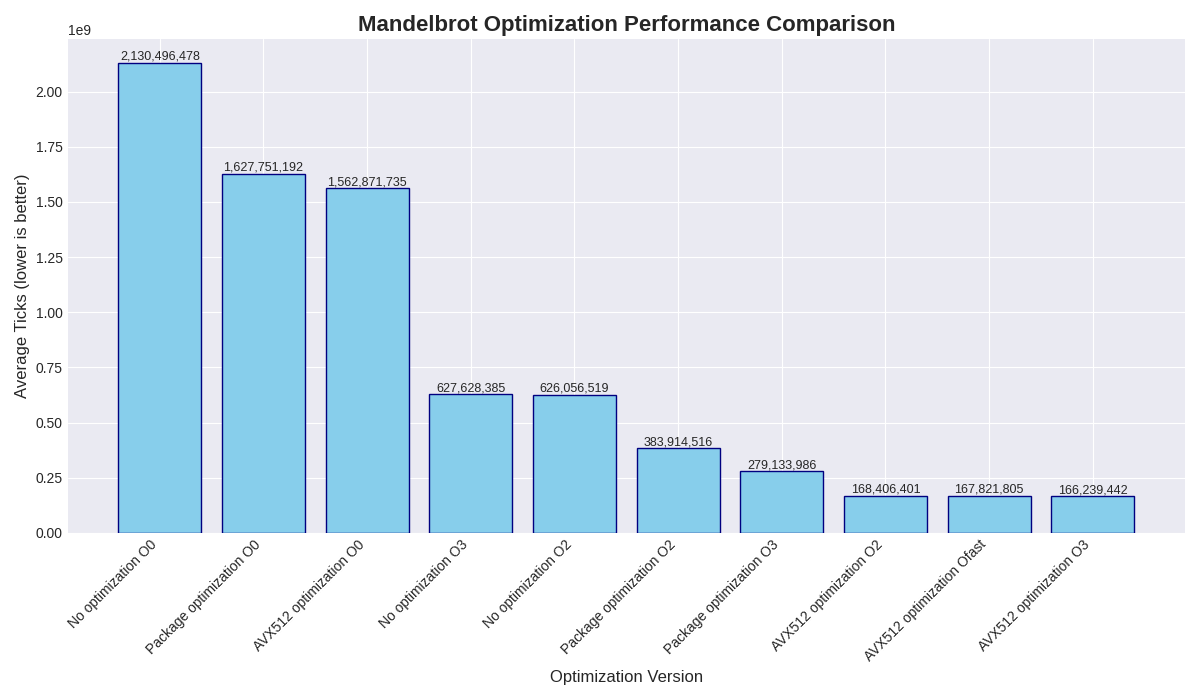
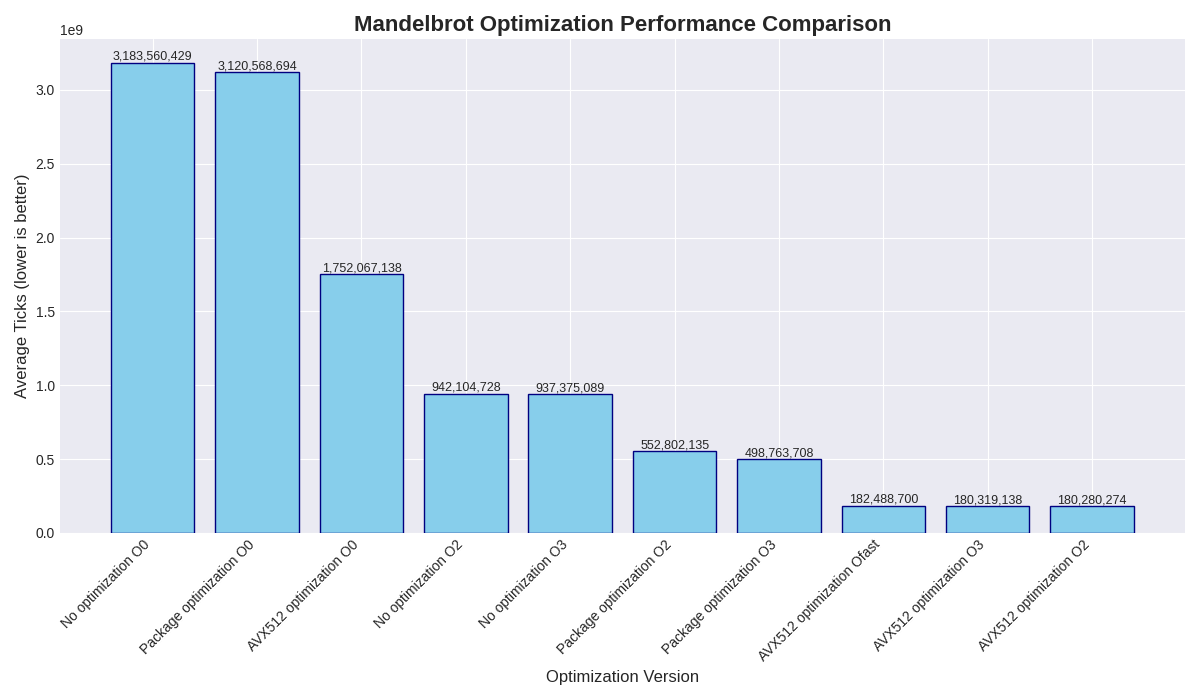
fixed some bugs

diff --git a/source/calc_avx512.c b/source/calc_avx512.c
@@ -7,6 +7,9 @@
 #include "calc_avx512.h"
 
 
+const int DOUBLE_PACK_SIZE = 8;
+
+
 void UpdateImageAVX512Optimization(Image* canvas, const CameraContext* cameraCtx)
 {
     assert(canvas); assert(canvas->data); assert(cameraCtx);
@@ -39,29 +42,35 @@ void UpdateImageAVX512Optimization(Image* canvas, const CameraContext* cameraCtx
             __m512d arrayModulusPow2 = _mm512_set1_pd(0.0);
             __m512i nCounter = _mm512_set1_epi64(0ll);
 
+            __m512d two = _mm512_set1_pd(2.0);
+            __m512i oneI = _mm512_set1_epi64(1ll);
+            __m512d limitPow2 = _mm512_set1_pd(NO_RETURN_POINT_POW2);
+
             unsigned char alive_mask = 0xFF;
             int n = 0;
 
             for (; n < MAX_ITERATION_COUNT && alive_mask; n++) {
-                arrayXPow2 = _mm512_mask_mul_pd(arrayXPow2, alive_mask, arrayX, arrayX);
-                arrayYPow2 = _mm512_mask_mul_pd(arrayYPow2, alive_mask, arrayY, arrayY);
+                arrayXPow2 = _mm512_mul_pd(arrayX, arrayX);
+                arrayYPow2 = _mm512_mul_pd(arrayY, arrayY);
 
-                arrayY = _mm512_mask_mul_pd(arrayY, alive_mask, arrayX, arrayY);
-                arrayY = _mm512_mask_mul_pd(arrayY, alive_mask, _mm512_set1_pd(2.0), arrayY);
-                arrayY = _mm512_mask_add_pd(arrayY, alive_mask, arrayY, arrayY0);
-
-                arrayX = _mm512_mask_sub_pd(arrayX, alive_mask, arrayXPow2, arrayYPow2);
-                arrayX = _mm512_mask_add_pd(arrayX, alive_mask, arrayX, arrayX0);
-
-                arrayModulusPow2 = _mm512_mask_add_pd(arrayModulusPow2, alive_mask, arrayXPow2, arrayYPow2);
-                __mmask8 in_bounds = _mm512_cmp_pd_mask(arrayModulusPow2, _mm512_set1_pd(NO_RETURN_POINT_POW2), _CMP_LT_OQ);
+                arrayModulusPow2 = _mm512_add_pd(arrayXPow2, arrayYPow2);
+                __mmask8 in_bounds = _mm512_cmp_pd_mask(arrayModulusPow2, limitPow2, _CMP_LT_OQ);
                 alive_mask &= in_bounds;
 
-                nCounter = _mm512_mask_add_epi64(nCounter, alive_mask, nCounter, _mm512_set1_epi64(1ll));
+                if (!alive_mask) {
+                    break;
+                }
+
+                __m512d xy = _mm512_mul_pd(arrayX, arrayY);
+                arrayY = _mm512_fmadd_pd(xy, two, arrayY0);
+                arrayX = _mm512_sub_pd(arrayXPow2, arrayYPow2);
+                arrayX = _mm512_add_pd(arrayX, arrayX0);
+
+                nCounter = _mm512_mask_add_epi64(nCounter, alive_mask, nCounter, oneI);
             }
 
-            alignas(64) long long resCounter[DOUBLE_PACK_SIZE] = {};
-            alignas(64) double resModulusPow2[DOUBLE_PACK_SIZE] = {};
+            long long resCounter[DOUBLE_PACK_SIZE] = {};
+            double resModulusPow2[DOUBLE_PACK_SIZE] = {};
             _mm512_store_epi64(resCounter, nCounter);
             _mm512_store_pd(resModulusPow2, arrayModulusPow2);
             for (int i = 0; i < DOUBLE_PACK_SIZE; i++) {
@@ -70,8 +79,8 @@ void UpdateImageAVX512Optimization(Image* canvas, const CameraContext* cameraCtx
                     finalColor = BLACK;
                 } else {
 #ifdef COLOR_DRAWING
-                double smooth = n + 1.0 - log2(log2(sqrt(x * x + y * y)));
-                finalColor = GetColor(fmodf((float)smooth * COLOR_CHANGE_COEFFICIENT, 1.0f));
+                int color = n % 2 * 255;
+                finalColor = (Color){color, color, color, color};
 #else
                 finalColor = WHITE;
 #endif // COLOR_DRAWING

diff --git a/scripts/build_line_chart.py b/scripts/build_line_chart.py
@@ -11,7 +11,6 @@ output_img = sys.argv[2]
 target_col_name = sys.argv[3]
 
 def load_hwinfo_csv(path):
-    # Добавлена cp1251 (Windows-1251) в начало списка
     encodings = ['cp1251', 'utf-16', 'utf-8-sig', 'utf-8', 'cp1252']
     for enc in encodings:
         try:
@@ -29,9 +28,7 @@ if data is None:
     print("Error: Could not read CSV file. Check encoding or if file is empty.")
     sys.exit(1)
 
-# Очистка заголовков: убираем кавычки и лишние пробелы
 data.columns = [col.replace('"', '').strip() for col in data.columns]
-# Убираем все не-ASCII символы из названий, кроме значка градуса
 data.columns = ["".join([c for c in col if ord(c) < 128 or c == '°']) for col in data.columns]
 
 def find_column(search_name, cols):
@@ -48,45 +45,34 @@ if not actual_target_col:
     print(f"Error: Column containing '{target_col_name}' not found.")
     sys.exit(1)
 
-# --- ФИНАЛЬНАЯ ОЧИСТКА ТИПОВ ДАННЫХ ---
-
-# 1. Превращаем значения в числа (ошибки станут NaN)
 data[actual_target_col] = pd.to_numeric(data[actual_target_col], errors='coerce')
 
-# 2. Выкидываем все строки, где нет данных или времени
 data = data.dropna(subset=[actual_target_col])
 if actual_time_col:
     data = data.dropna(subset=[actual_time_col])
 
-# 3. Чтобы Matplotlib не путался, передаем данные как чистые списки Python
 y_values = data[actual_target_col].tolist()
 
 if actual_time_col:
-    # Все метки времени принудительно делаем строками и убираем любые NaN
     x_values = [str(t) for t in data[actual_time_col].tolist()]
     x_label = actual_time_col
 else:
     x_values = list(range(len(y_values)))
     x_label = "Sample Index"
 
-# --- ОТРИСОВКА ---
-
 plt.figure(figsize=(15, 6))
 plt.style.use('seaborn-v0_8-darkgrid')
 
-# Передача списков (list) вместо Series часто лечит TypeError в Matplotlib
 plt.plot(x_values, y_values, color='crimson', linewidth=1.5)
 
 plt.title(f'CPU Metrics: {actual_target_col}', fontsize=14, fontweight='bold')
 plt.xlabel(x_label, fontsize=12)
 plt.ylabel('Value', fontsize=12)
 
-# Ограничиваем количество меток на оси X
 plt.gca().xaxis.set_major_locator(plt.MaxNLocator(10))
 plt.xticks(rotation=30)
 plt.tight_layout()
 
-# Сохранение
 output_dir = os.path.dirname(output_img)
 if output_dir and not os.path.exists(output_dir):
     os.makedirs(output_dir)

diff --git a/source/fractal.c b/source/fractal.c
@@ -7,6 +7,27 @@
 
 #include "fractal.h"
 
+
+const int SCREEN_WIDTH = 1280;
+const int SCREEN_HEIGHT = 720;
+
+const ftype DEFAULT_ZOOM = 1.0;
+const ftype MOOV_COEFFICIENT = 0.05;
+
+const ftype MIN_X = -2.0;
+const ftype MAX_X = 1.0;
+const ftype MIN_Y = -1.0;
+const ftype MAX_Y = 1.0;
+
+const ftype START_X = -0.5;
+const ftype START_Y = 0;
+
+const int MAX_ITERATION_COUNT = 256;
+const int NO_RETURN_POINT_POW2 = 4.0;
+
+const float COLOR_CHANGE_COEFFICIENT = 0.05f;
+
+
 #if defined(PACKAGE_OPTIMIZATION)
 
     #include "calc_package.h"
@@ -23,15 +44,9 @@ static void ComputeFractalData(Image* canvas, CameraContext* ctx);
 
 #ifndef BENCHMARK
 
-static void UpdateCamera(CameraContext* cameraCtx);
+static void MyUpdateCamera(CameraContext* cameraCtx);
 static void UpdateViewport(CameraContext* cameraCtx);
 #endif // BENCHMARK
-
-
-#ifdef COLOR_DRAWING
-
-static Color GetColor(ftype t);
-#endif // COLOR_DRAWING
 
 
 #ifdef BENCHMARK
@@ -61,7 +76,7 @@ void RunFractal()
     Texture2D fractalTexture = LoadTextureFromImage(canvas);
 
     while (!WindowShouldClose()) {
-        UpdateCamera(&cameraCtx);
+        MyUpdateCamera(&cameraCtx);
         ComputeFractalData(&canvas, &cameraCtx);
         
         UpdateTexture(fractalTexture, canvas.data);
@@ -96,7 +111,7 @@ static void ComputeFractalData(Image* canvas, CameraContext* cameraCtx)
 
 #ifndef BENCHMARK
 
-static void UpdateCamera(CameraContext* cameraCtx)
+static void MyUpdateCamera(CameraContext* cameraCtx)
 {
     assert(cameraCtx);
 
@@ -142,7 +157,7 @@ static void UpdateViewport(CameraContext* cameraCtx)
 
 #ifdef COLOR_DRAWING
 
-static Color GetColor(ftype t) {
+Color MyGetColor(ftype t) {
     float a[] = {0.5f, 0.5f, 0.5f};
     float b[] = {0.5f, 0.5f, 0.5f};
     float c[] = {1.0f, 1.0f, 1.0f};

diff --git a/include/fractal.h b/include/fractal.h
@@ -18,27 +18,11 @@ typedef struct {
 } CameraContext;
 
 
-const int SCREEN_WIDTH = 1280;
-const int SCREEN_HEIGHT = 720;
-
-const ftype DEFAULT_ZOOM = 1.0;
-const ftype MOOV_COEFFICIENT = 0.05;
-
-const ftype MIN_X = -2.0;
-const ftype MAX_X = 1.0;
-const ftype MIN_Y = -1.0;
-const ftype MAX_Y = 1.0;
-
-const ftype START_X = -0.5;
-const ftype START_Y = 0;
-
-const int MAX_ITERATION_COUNT = 256;
-const int NO_RETURN_POINT_POW2 = 4.0;
-
-const int DOUBLE_PACK_SIZE = 8;
-
-// Если < 0.05, то цвета будут меняться плавно, если больше - резко
-const float COLOR_CHANGE_COEFFICIENT = 0.05f;
+extern const int SCREEN_WIDTH;
+extern const int SCREEN_HEIGHT;
+extern const int MAX_ITERATION_COUNT;
+extern const float COLOR_CHANGE_COEFFICIENT;
+extern const int NO_RETURN_POINT_POW2;
 
 
 // Цветовые схемы для множества Мандельброта
@@ -55,6 +39,12 @@ unsigned long long RunFractal(unsigned int iterations);
 
 void RunFractal();
 #endif // BENCHMARK
+
+#ifdef COLOR_DRAWING
+
+Color MyGetColor(ftype t);
+#endif // COLOR_DRAWING
+
 
 
 #endif // CALC_H_

diff --git a/source/calc_package.c b/source/calc_package.c
@@ -6,6 +6,9 @@
 #include "calc_package.h"
 
 
+const int DOUBLE_PACK_SIZE = 8;
+
+
 void UpdateImagePackageOptimization(Image* canvas, const CameraContext* cameraCtx)
 {
     assert(canvas); assert(canvas->data); assert(cameraCtx);
@@ -57,8 +60,8 @@ void UpdateImagePackageOptimization(Image* canvas, const CameraContext* cameraCt
                     finalColor = BLACK;
                 } else {
 #ifdef COLOR_DRAWING
-                double smooth = n + 1.0 - log2(log2(sqrt(x * x + y * y)));
-                finalColor = GetColor(fmodf((float)smooth * COLOR_CHANGE_COEFFICIENT, 1.0f));
+                double smooth = n + 1.0 - log2(log2(sqrt(arrayX[i] * arrayX[i] + arrayY[i] * arrayY[i])));
+                finalColor = MyGetColor(fmodf((float)smooth * COLOR_CHANGE_COEFFICIENT, 1.0f));
 #else
                 finalColor = WHITE;
 #endif // COLOR_DRAWING

diff --git a/source/calc_no_opti.c b/source/calc_no_opti.c
@@ -40,8 +40,8 @@ void UpdateImageNoOptimization(Image* canvas, const CameraContext* cameraCtx)
                 finalColor = BLACK;
             } else {
 #ifdef COLOR_DRAWING
-                double smooth = n + 1.0 - log2(log2(sqrt(x * x + y * y)));
-                finalColor = GetColor(fmodf((float)smooth * COLOR_CHANGE_COEFFICIENT, 1.0f));
+                int color = n % 2 * 255;
+                finalColor = (Color){color, color, color, color};
 #else
                 finalColor = WHITE;
 #endif // COLOR_DRAWING
